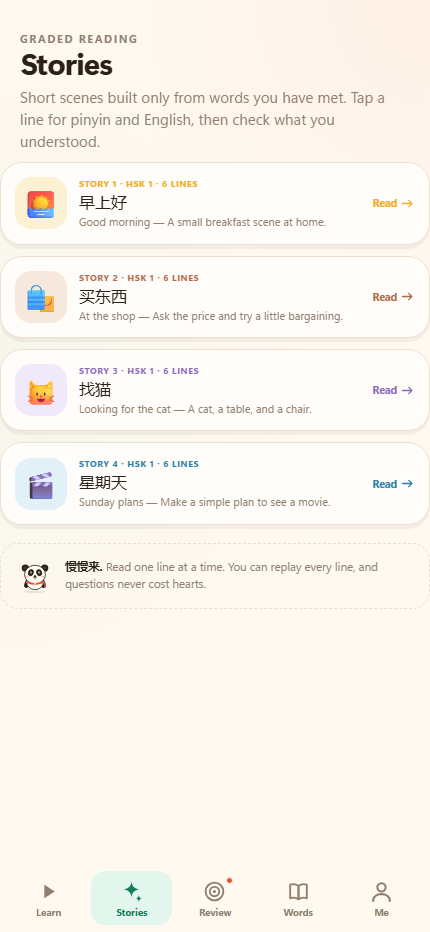
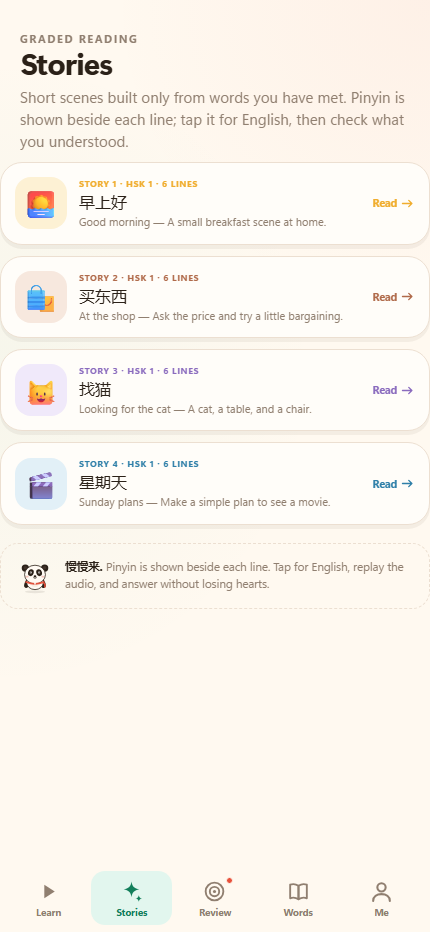
v1.1.1: pinyin beside options, build tiles, and story lines

Changed region(s): [[0.1512, 0.5912, 0.9372, 0.6534], [0.0302, 0.0933, 0.9372, 0.1556]]

diff --git a/src/js/ui/lesson.js b/src/js/ui/lesson.js
@@ -163,13 +163,15 @@ function renderToneWord(app, step) {
 }
 
 function renderOptions(step, app) {
+  const showPinyin = app.state.profile.showPinyin;
   return `<div class="options" data-options>
     ${step.options
       .map(
         (option, index) => `<button class="option ${optionClass(app, step, option.value)}" data-value="${escapeHtml(String(option.value))}" ${app.session.checked ? 'disabled' : ''}>
           <span class="option-key">${index + 1}</span>
-          <span class="option-text">${escapeHtml(String(option.label))}
-          </span>
+          <span class="option-text">${escapeHtml(String(option.label))}${
+            showPinyin && option.pinyin ? `<span class="opt-py">${escapeHtml(option.pinyin)}</span>` : ''
+          }</span>
         </button>`
       )
       .join('')}
@@ -189,9 +191,12 @@ function renderFill(app, step) {
 
 function renderBuild(app, step) {
   const selected = app.session.buildSelected || [];
+  const showPinyin = app.state.profile.showPinyin;
   const selectedTiles = selected
     .map((key) => step.bank.find((tile) => tile.key === key))
     .filter(Boolean);
+  const tilePinyin = (tile) =>
+    showPinyin && tile.pinyin ? `<span class="tile-pinyin">${escapeHtml(tile.pinyin)}</span>` : '';
   return `<div class="lesson-prompt">
     ${promptHeader('Build the translation')}
     <div class="prompt-en" style="margin-top:10px">${escapeHtml(step.prompt)}</div>
@@ -200,7 +205,7 @@ function renderBuild(app, step) {
     ${selectedTiles
       .map(
         (tile) =>
-          `<button class="tile in-answer" data-remove-tile="${tile.key}"><span class="tile-text">${escapeHtml(tile.text)}</span></button>`
+          `<button class="tile in-answer" data-remove-tile="${tile.key}"><span class="tile-text">${escapeHtml(tile.text)}</span>${tilePinyin(tile)}</button>`
       )
       .join('')}
   </div>
@@ -208,7 +213,7 @@ function renderBuild(app, step) {
     ${step.bank
       .map(
         (tile) =>
-          `<button class="tile ${selected.includes(tile.key) ? 'used' : ''}" data-tile="${tile.key}"><span class="tile-text">${escapeHtml(tile.text)}</span></button>`
+          `<button class="tile ${selected.includes(tile.key) ? 'used' : ''}" data-tile="${tile.key}"><span class="tile-text">${escapeHtml(tile.text)}</span>${tilePinyin(tile)}</button>`
       )
       .join('')}
   </div>
@@ -399,7 +404,9 @@ export function mountLesson(app) {
       const answer = root.querySelector('[data-build-answer]');
       answer?.insertAdjacentHTML(
         'beforeend',
-        `<button class="tile in-answer" data-remove-tile="${key}"><span class="tile-text">${escapeHtml(tile?.text || '')}</span></button>`
+        `<button class="tile in-answer" data-remove-tile="${key}"><span class="tile-text">${escapeHtml(tile?.text || '')}</span>${
+          app.state.profile.showPinyin && tile?.pinyin ? `<span class="tile-pinyin">${escapeHtml(tile.pinyin)}</span>` : ''
+        }</button>`
       );
       const remove = answer?.lastElementChild;
       remove?.addEventListener('click', () => removeTile(app, key));

diff --git a/src/js/ui/stories.js b/src/js/ui/stories.js
@@ -22,7 +22,7 @@ export function renderStories(app) {
     <header class="page-header">
       <span class="eyebrow">Graded reading</span>
       <h1>Stories</h1>
-      <p>Short scenes built only from words you have met. Tap a line for pinyin and English, then check what you understood.</p>
+      <p>Short scenes built only from words you have met. Pinyin is shown beside each line; tap it for English, then check what you understood.</p>
     </header>
 
     <div class="story-list">
@@ -42,7 +42,7 @@ export function renderStories(app) {
 
     <div class="story-tip">
       ${panda('happy')}
-      <span><b>慢慢来.</b> Read one line at a time. You can replay every line, and questions never cost hearts.</span>
+      <span><b>慢慢来.</b> Pinyin is shown beside each line. Tap for English, replay the audio, and answer without losing hearts.</span>
     </div>
   </div>`;
 }
@@ -56,6 +56,7 @@ export function mountStories(app) {
 export function renderStory(app) {
   const story = STORY_BY_ID.get(app.route.storyId) || STORIES[0];
   const done = Boolean(app.route.done);
+  const showPinyin = Boolean(app.state.profile.showPinyin);
 
   if (done) {
     return `<div class="story-reader story-reader--${story.color}">
@@ -93,7 +94,7 @@ export function renderStory(app) {
     </section>
 
     <div class="story-read-head">
-      <span>Tap a line to reveal pinyin + English</span>
+      <span>${showPinyin ? 'Pinyin is on. Tap a line for English.' : 'Tap a line to reveal pinyin and English.'}</span>
       <button class="story-reveal" data-story-action="reveal">Show all</button>
     </div>
 
@@ -106,7 +107,7 @@ export function renderStory(app) {
               <button class="story-hear" data-story-hear="${line.id}" aria-label="Hear line">${icon('speaker')}</button>
             </div>
             <p class="story-zh">${escapeHtml(line.zh)}</p>
-            <p class="story-pinyin">${escapeHtml(line.pinyin)}</p>
+            ${showPinyin ? `<p class="story-pinyin">${escapeHtml(line.pinyin)}</p>` : ''}
             <p class="story-en">${escapeHtml(line.en)}</p>
           </div>`
         )

diff --git a/src/css/app.css b/src/css/app.css
@@ -2678,7 +2678,27 @@ body.modal-open {
   box-shadow: 0 3px 0 #bcdcf2;
 }
 
+.tile {
+  display: inline-flex;
+  flex-direction: column;
+  align-items: center;
+  justify-content: center;
+  gap: 1px;
+  padding-top: 4px;
+  padding-bottom: 4px;
+  line-height: 1.15;
+}
+
 .tile-text {
+  pointer-events: none;
+}
+
+.tile-pinyin {
+  color: var(--muted);
+  font-family: var(--font-body);
+  font-size: 9.5px;
+  font-weight: 600;
+  line-height: 1.15;
   pointer-events: none;
 }
 
@@ -4412,24 +4432,23 @@ body.modal-open {
   color: var(--ink);
 }
 
-.story-pinyin,
+.story-pinyin {
+  display: block;
+  margin: 3px 0 0;
+  color: var(--jade-dark);
+  font-size: 11.5px;
+  font-weight: 700;
+  line-height: 1.45;
+}
+
 .story-en {
   display: none;
   margin: 4px 0 0;
+  color: var(--muted);
   font-size: 11.5px;
   line-height: 1.45;
 }
 
-.story-pinyin {
-  color: var(--jade-dark);
-  font-weight: 700;
-}
-
-.story-en {
-  color: var(--muted);
-}
-
-.story-line.open .story-pinyin,
 .story-line.open .story-en {
   display: block;
 }

diff --git a/src/js/lesson-engine.js b/src/js/lesson-engine.js
@@ -75,6 +75,7 @@ function optionList(target, pool, random, key, count = 4) {
   return shuffle([target, ...wrong], random).map((word) => ({
     value: key(word),
     label: key(word),
+    pinyin: word.pinyin ?? null,
     id: word.id,
   }));
 }
@@ -175,8 +176,8 @@ function makeBuildStep(sentence, pool, random, index) {
     .map((word) => word.zh);
   const bank = shuffle(
     [
-      ...answer.map((text, i) => ({ key: `a${i}`, text })),
-      ...extras.map((text, i) => ({ key: `x${i}`, text })),
+      ...answer.map((text, i) => ({ key: `a${i}`, text, pinyin: WORD_BY_ZH.get(text)?.pinyin ?? null })),
+      ...extras.map((text, i) => ({ key: `x${i}`, text, pinyin: WORD_BY_ZH.get(text)?.pinyin ?? null })),
     ],
     random
   );

diff --git a/src/js/updater.js b/src/js/updater.js
@@ -91,7 +91,7 @@ export function showUpdateSheet(app, info, { manual = false } = {}) {
   const dismissed = localStorage.getItem('bao.update.dismissed');
   if (!manual && dismissed === info.version) return;
 
-  const current = window.BaoNative?.getVersionName?.() || '1.1.0';
+  const current = window.BaoNative?.getVersionName?.() || '1.1.1';
   const size = info.size ? `${(Number(info.size) / 1048576).toFixed(1)} MB` : '';
   const notes = String(info.notes || '')
     .split('\n')

diff --git a/src/js/ui/profile.js b/src/js/ui/profile.js
@@ -18,7 +18,7 @@ export function renderProfile(app) {
   const name = state.profile.name || 'friend';
   const joinDate = new Date(state.createdAt).toLocaleDateString(undefined, { month: 'short', year: 'numeric' });
   const history = state.history || {};
-  const version = window.BaoNative?.getVersionName?.() || '1.1.0';
+  const version = window.BaoNative?.getVersionName?.() || '1.1.1';
 
   return `<div class="screen">
     <header class="page-header">

diff --git a/sw.js b/sw.js
@@ -1,6 +1,6 @@
 /* Bao Chinese — offline shell. No build step, no dependencies. */
 // Bump this on every deploy so cache-first assets are invalidated.
-const VERSION = 'bao-v1.1.0';
+const VERSION = 'bao-v1.1.1';
 const ASSETS = [
   './',
   './index.html',

diff --git a/README.md b/README.md
@@ -20,6 +20,7 @@ Bao is a Duolingo-shaped Mandarin course that refuses to skip the parts generic 
 - **Grammar gets one minute.** Every lesson has a plain-English “why” card.
 - **Five minutes is enough.** 14–22 interactions, with a real completion screen.
 - **It works offline.** No account, no server, no ads, no tracking. Your progress is local and exportable.
+- **Pinyin beside every word.** Dictionary rows, lesson answer options, build tiles, sentence examples, and story lines all show pinyin; the setting can turn it off for listening practice.
 - **Bundled Mandarin audio.** 661 neural-voice clips cover every word, sentence, story line, and tone pair; device TTS is the fallback.
 - **It updates itself.** The Android build checks GitHub Releases, verifies the APK checksum, and hands it to Android's installer.
 - **Gentle gamification.** Streaks, XP, gems, and hearts — with an unlimited-hearts setting and free review.
@@ -43,6 +44,10 @@ It is a **complete starter course for HSK 3.0 Level 1**: 16 units, 49 lessons, *
 | Stories | Story reader |
 | --- | --- |
 | ![Stories](screenshots/stories.png) | ![Story](screenshots/story.png) |
+
+| Pinyin in choices | Pinyin in build |
+| --- | --- |
+| ![Pinyin lesson](screenshots/lesson-pinyin.png) | ![Pinyin build](screenshots/build-pinyin.png) |
 
 | Words | Profile | Completion |
 | --- | --- | --- |
@@ -126,7 +131,7 @@ When a newer release exists, it:
 
 The first update needs “Allow from this source” for Bao. Progress stays on the device; the app does not use an account.
 
-**One-time note:** v0.1.0 was signed with a throwaway CI debug key and has no updater code, so it cannot update itself. Reinstall v1.1.0 once. The v0.1.1+ builds are signed with the stable demo key and can update in place. The demo key is intentionally public for this prototype — see [android/keystore/README.md](android/keystore/README.md) before a Play Store release.
+**One-time note:** v0.1.0 was signed with a throwaway CI debug key and has no updater code, so it cannot update itself. Reinstall v1.1.1 once. The v0.1.1+ builds are signed with the stable demo key and can update in place. The demo key is intentionally public for this prototype — see [android/keystore/README.md](android/keystore/README.md) before a Play Store release.
 
 ```bash
 # requires JDK 17, Android SDK 35, and Gradle 8.9+

diff --git a/docs/product.md b/docs/product.md
@@ -103,6 +103,7 @@ A friendly, offline Android app that teaches absolute beginners to **hear tones,
 | Lessons | Intro, meaning, hanzi, audio, tone, match, build, fill, trace | ✅ |
 | Stroke order | 16 core characters, animated paths, guided writing, hints | ✅ v1.0 |
 | Stories | 4 graded scenes, line audio, tap-to-translate, comprehension questions | ✅ v1.1 |
+| Pinyin | Beside words, answer options, build tiles, and story lines; toggle in Me | ✅ v1.1.1 |
 | Feedback | Correct/incorrect states, answer reveal, retry queue | ✅ |
 | Audio | Android TTS bridge; browser speech synthesis; slow mode | ✅ |
 | Gamification | XP, levels, gems, hearts + refill, streak + freeze, daily goal | ✅ |
